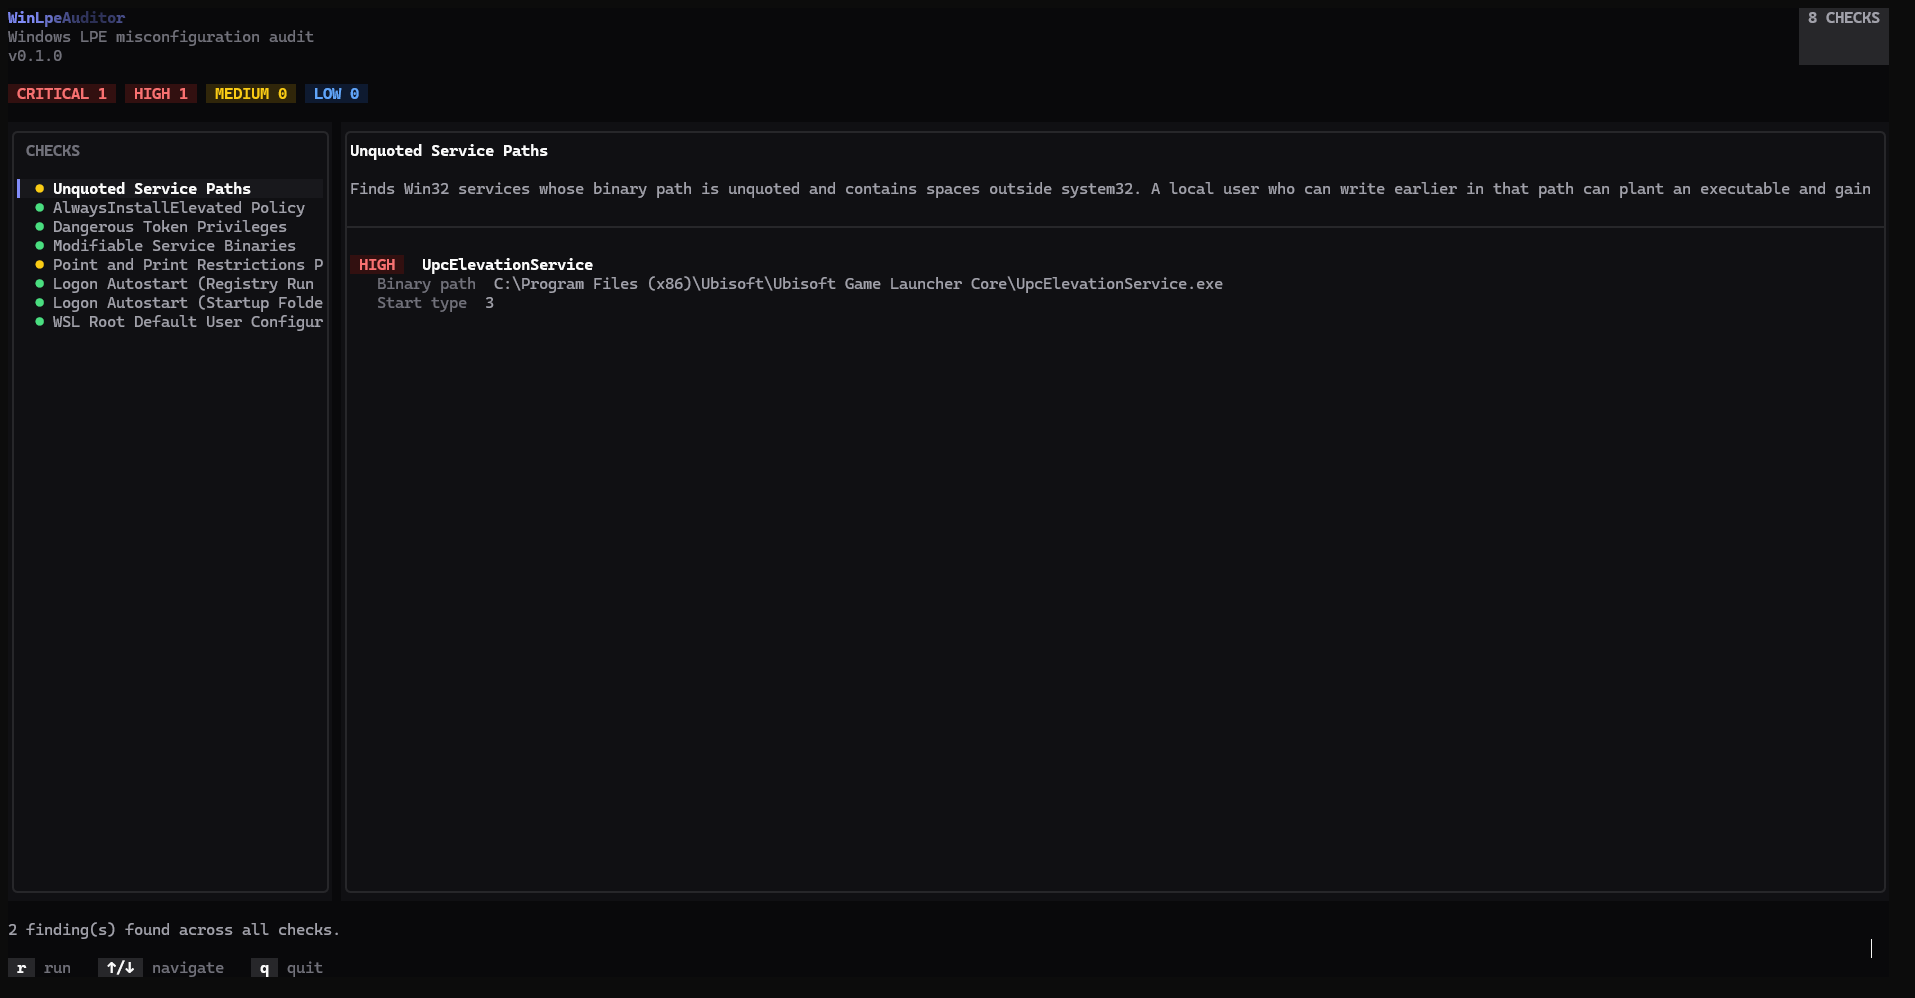
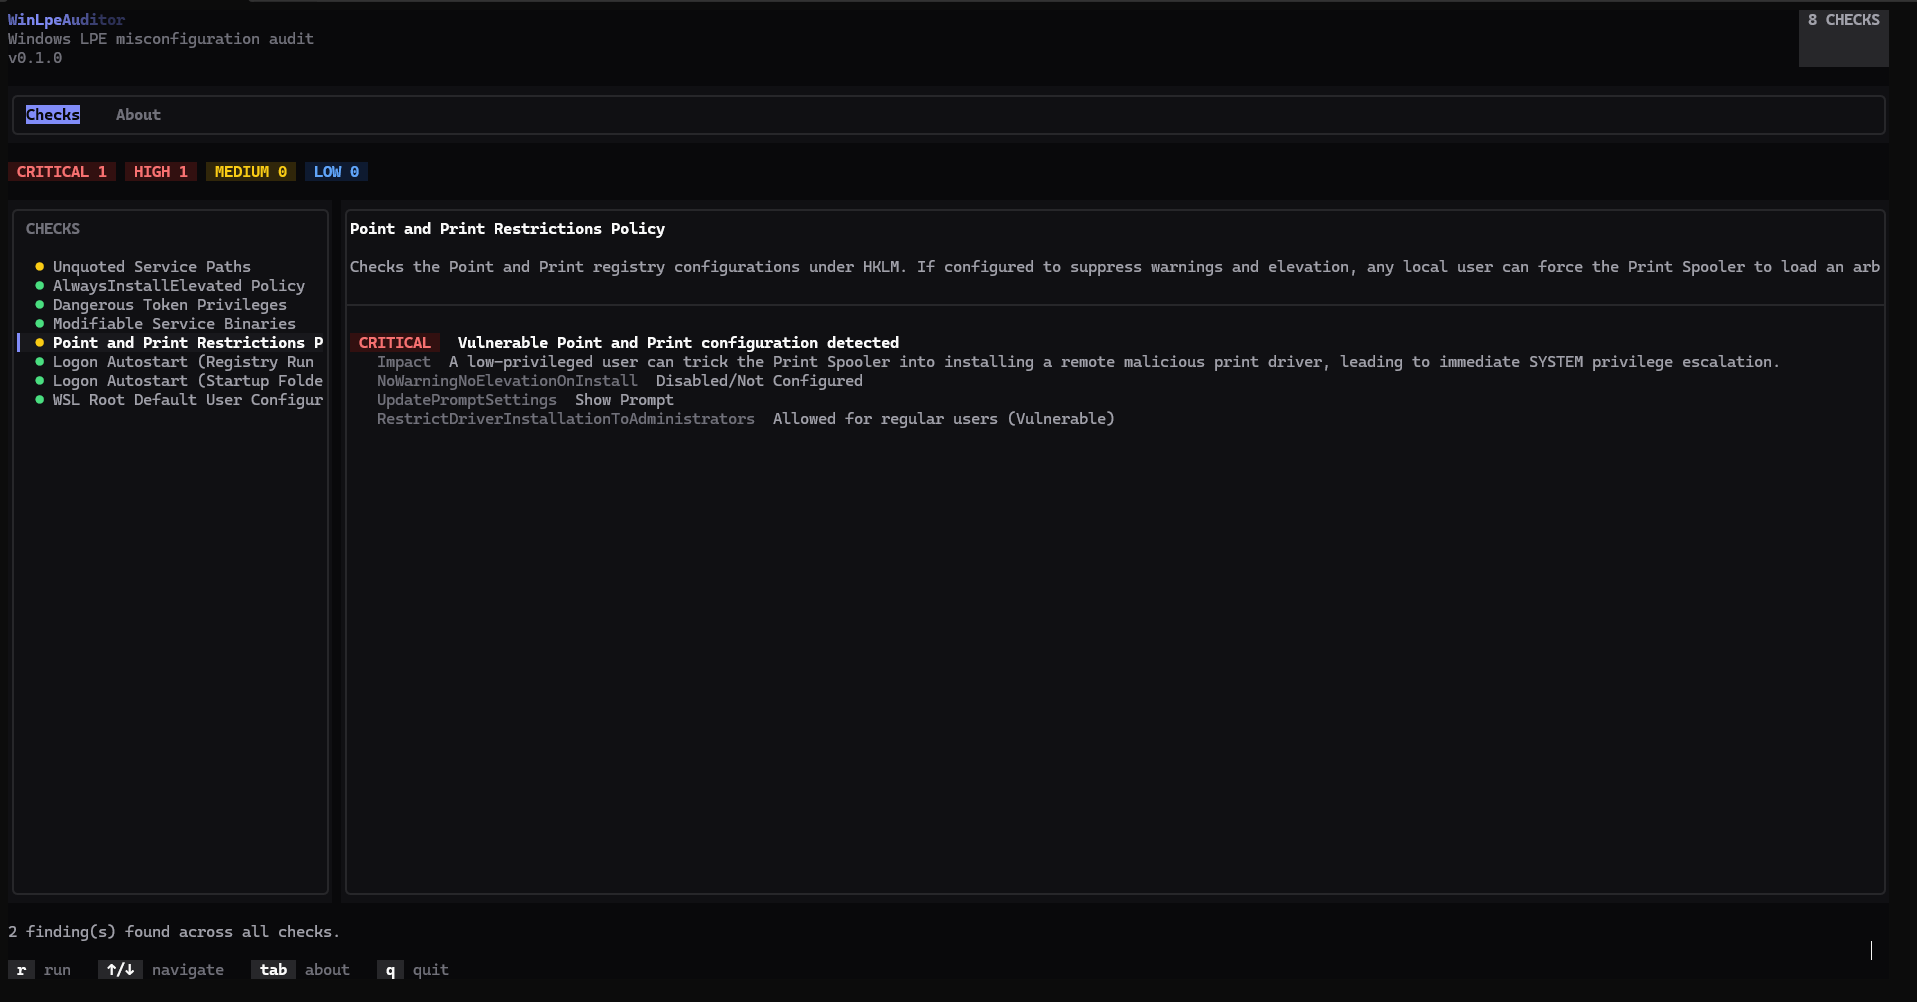
refactor: Updated TuiApp to add version and about tab

diff --git a/src/UI/TuiApp.cpp b/src/UI/TuiApp.cpp
@@ -1,16 +1,17 @@
 #include "UI/TuiApp.h"
 
-#include <ftxui/component/component.hpp>
-#include <ftxui/component/event.hpp>
-#include <ftxui/component/screen_interactive.hpp>
-#include <ftxui/dom/elements.hpp>
-
 #include <algorithm>
 #include <array>
 #include <atomic>
 #include <chrono>
 #include <mutex>
 #include <thread>
+#include <ftxui/component/component.hpp>
+#include <ftxui/component/event.hpp>
+#include <ftxui/component/screen_interactive.hpp>
+#include <ftxui/dom/elements.hpp>
+
+#include "Version.h"
 
 using namespace ftxui;
 
@@ -118,6 +119,8 @@ Element ProgressBar(double fraction, int width) {
 }
 
 }  // namespace
+    
+enum class View { Checks, About };
 
 void TuiApp::Run() {
     std::cout << "\033]0;WinLpeAuditor - Windows Local Privilege Escalation Auditor\007" << std::flush;
@@ -132,6 +135,8 @@ void TuiApp::Run() {
     double progress = 0.0;
     std::string statusText = "Ready.";
     std::mutex stateMutex;
+    
+    View currentView = View::Checks;
 
     std::atomic<int> animationTick{0};
     std::atomic<bool> appActive{true};
@@ -204,6 +209,76 @@ void TuiApp::Run() {
             vbox(std::move(rows)),
             filler(),
         })) | size(WIDTH, EQUAL, 36);
+    };
+    
+    auto renderTabs = [&]() -> Element {
+        auto tab = [&](const std::string& label, View v) {
+            bool active = currentView == v;
+            Element inner = hbox({text(label)}) | bold;
+            if (active) {
+                return inner | color(Color::RGB(9, 9, 11)) | bgcolor(Accent());
+            }
+            return inner | color(FaintFg());
+        };
+
+        return hbox({
+                   text(" "),
+                   tab("Checks", View::Checks),
+                   text("    "),
+                   tab("About", View::About),
+                   text(" "),
+               }) |
+               borderStyled(ROUNDED) | color(Border()) | bgcolor(CardBg());
+    };
+
+    auto renderAbout = [&]() -> Element {
+        Elements content;
+
+        content.push_back(text(""));
+        content.push_back(hcenter(RenderAnimatedHeader(animationTick.load())));
+        content.push_back(hcenter(text("Windows LPE misconfiguration audit") | color(FaintFg())));
+        content.push_back(text(""));
+        content.push_back(hcenter(Badge(std::string("v") + WinLpeAuditor::kVersion, Accent(), MutedBg())));
+        content.push_back(text(""));
+        content.push_back(paragraphAlignCenter(
+            "A modular Windows local-privilege-escalation misconfiguration auditor. "
+            "Scans for common LPE vectors such as unquoted service paths and "
+            "AlwaysInstallElevated.") | color(MutedFg()));
+        content.push_back(text(""));
+        content.push_back(separator() | color(Border()));
+        content.push_back(text(""));
+
+        auto infoRow = [&](const std::string& label, Element value) {
+            return hbox({
+                text(label) | color(FaintFg()) | size(WIDTH, EQUAL, 16),
+                value,
+            });
+        };
+
+        content.push_back(hcenter(vbox({
+            infoRow("Created by", text(WinLpeAuditor::kAuthor) | color(Fg()) | bold),
+            text(""),
+            infoRow("GitHub", text(WinLpeAuditor::kGithubUrl) | color(InfoFg()) | underlined),
+            text(""),
+            infoRow("Checks loaded", text(std::to_string(count)) | color(Fg())),
+            text(""),
+            infoRow("Built with", text("FTXUI, CMake, MSVC") | color(Fg())),
+        })));
+
+        content.push_back(text(""));
+        content.push_back(separator() | color(Border()));
+        content.push_back(text(""));
+        content.push_back(hcenter(text("KEYBINDINGS") | bold | color(FaintFg())));
+        content.push_back(text(""));
+        content.push_back(hcenter(hbox({
+            Kbd("tab"), text("  switch view    ") | color(FaintFg()),
+            Kbd("r"),   text("  run checks    ") | color(FaintFg()),
+            Kbd("↑/↓"), text("  navigate    ") | color(FaintFg()),
+            Kbd("q"),   text("  quit") | color(FaintFg()),
+        })));
+        content.push_back(filler());
+
+        return Card(vbox(std::move(content)) | flex) | flex;
     };
 
     auto renderDetails = [&]() -> Element {
@@ -289,13 +364,15 @@ void TuiApp::Run() {
                 RenderAnimatedHeader(animationTick.load()),
                 text("Windows LPE misconfiguration audit") | color(FaintFg()),
                 filler(),
-                text("v0.1.0") | color(FaintFg())
+                text(std::string("v") + WinLpeAuditor::kVersion) | color(FaintFg())
             }),
             filler(),
             Badge(std::to_string(count) + " CHECKS", MutedFg(), MutedBg()),
         });
 
-        auto body = hbox({renderSidebar(), text(" "), renderDetails()}) | flex;
+        auto body = currentView == View::Checks
+            ? hbox({renderSidebar(), text(" "), renderDetails()}) | flex
+            : hbox({renderAbout()}) | flex;
 
         Element footerStatus = text(currentStatus) | color(MutedFg()) | flex;
         Element footerRight = text("");
@@ -308,14 +385,22 @@ void TuiApp::Run() {
         }
         auto footer = hbox({footerStatus, footerRight});
 
-        auto hints = hbox({
-            Kbd("r"), text(" run   ") | color(FaintFg()),
-            Kbd("↑/↓"), text(" navigate   ") | color(FaintFg()),
-            Kbd("q"), text(" quit") | color(FaintFg()),
-        });
+        auto hints = currentView == View::Checks
+            ? hbox({
+                  Kbd("r"), text(" run   ") | color(FaintFg()),
+                  Kbd("↑/↓"), text(" navigate   ") | color(FaintFg()),
+                  Kbd("tab"), text(" about   ") | color(FaintFg()),
+                  Kbd("q"), text(" quit") | color(FaintFg()),
+              })
+            : hbox({
+                  Kbd("tab"), text(" back   ") | color(FaintFg()),
+                  Kbd("q"), text(" quit") | color(FaintFg()),
+              });
 
         return vbox({
                    header,
+                   text(""),
+                   renderTabs(),
                    text(""),
                    renderSummary(),
                    text(""),
@@ -329,12 +414,19 @@ void TuiApp::Run() {
     });
 
     rootComponent |= CatchEvent([&](Event event) {
-        if (event == Event::Character('r') || event == Event::Character('R')) {
-            runAudit();
+        if (event == Event::Tab) {
+            currentView = (currentView == View::Checks) ? View::About : View::Checks;
             return true;
         }
         if (event == Event::Character('q') || event == Event::Character('Q') || event == Event::Escape) {
             screen.ExitLoopClosure()();
+            return true;
+        }
+        if (currentView != View::Checks) {
+            return false;
+        }
+        if (event == Event::Character('r') || event == Event::Character('R')) {
+            runAudit();
             return true;
         }
         if (event == Event::ArrowUp || event == Event::Character('k')) {

diff --git a/include/Version.h b/include/Version.h
@@ -1,0 +1,10 @@
+#pragma once
+
+namespace WinLpeAuditor {
+
+    inline constexpr const char* kVersion   = "0.1.0";
+    inline constexpr const char* kAppName   = "WinLpeAuditor";
+    inline constexpr const char* kAuthor    = "0xby7e_me";
+    inline constexpr const char* kGithubUrl = "https://github.com/0xby7eMe/Windows-LPE-Auditor";
+
+}
